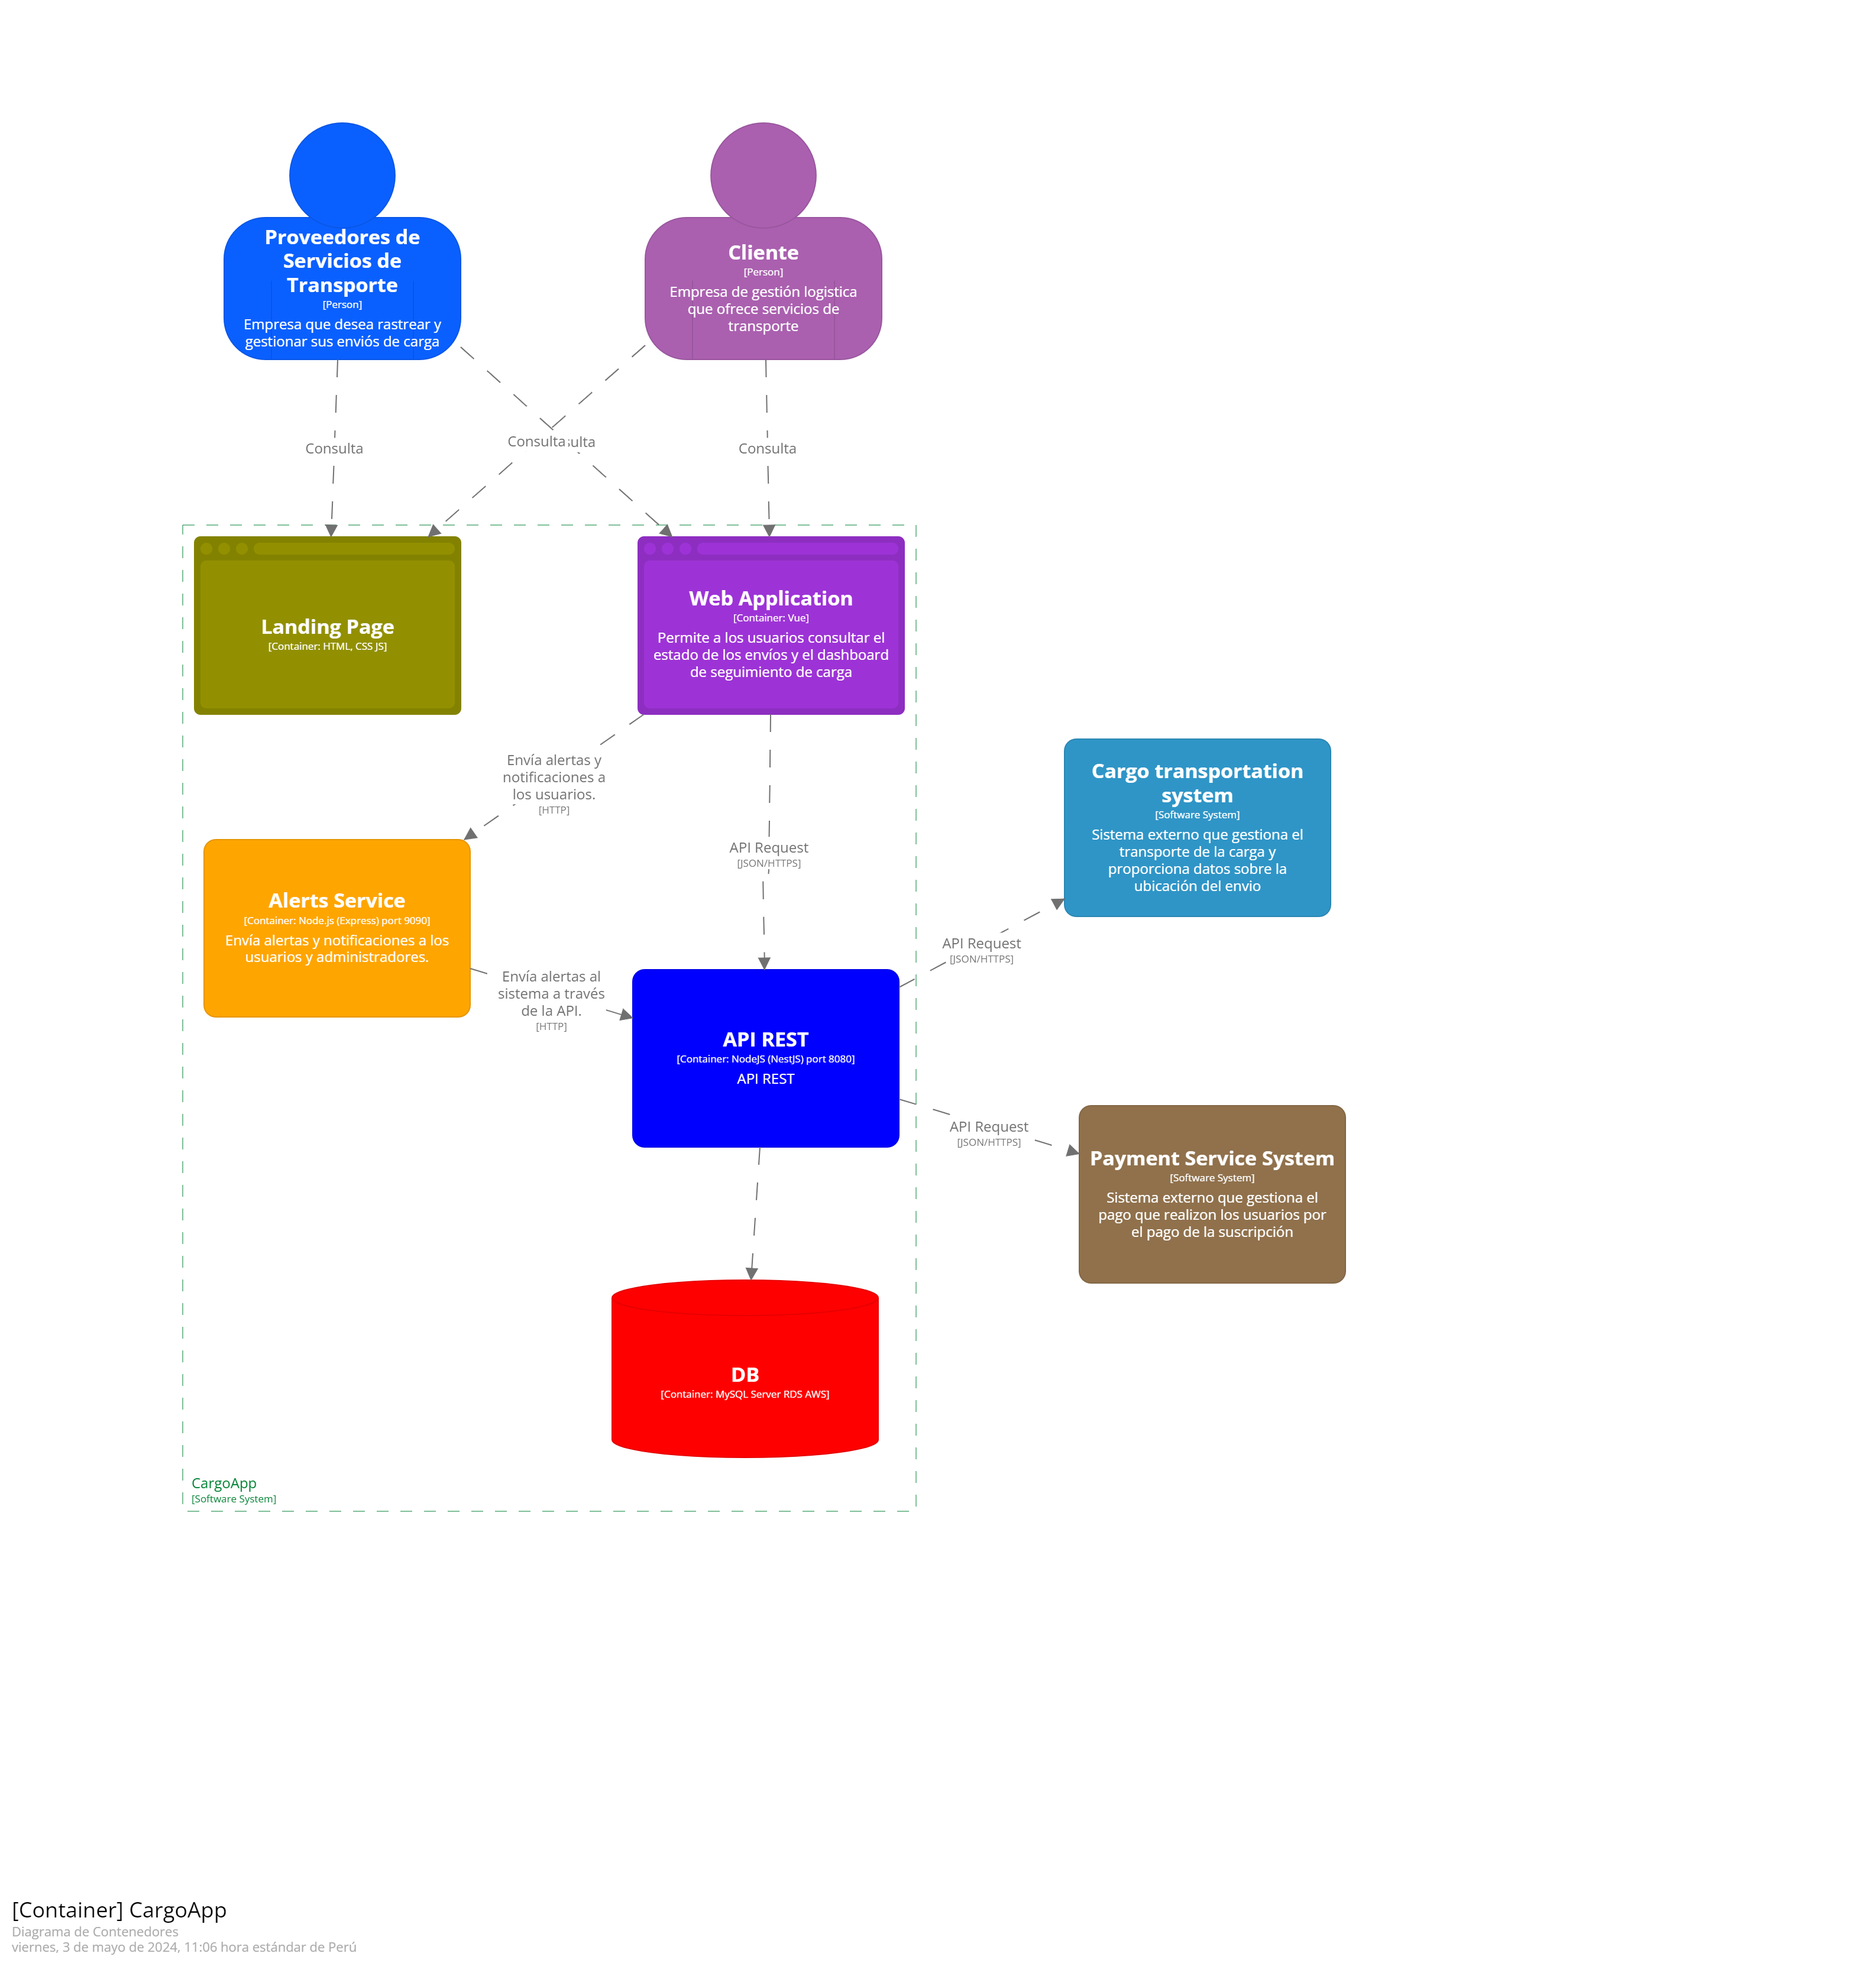
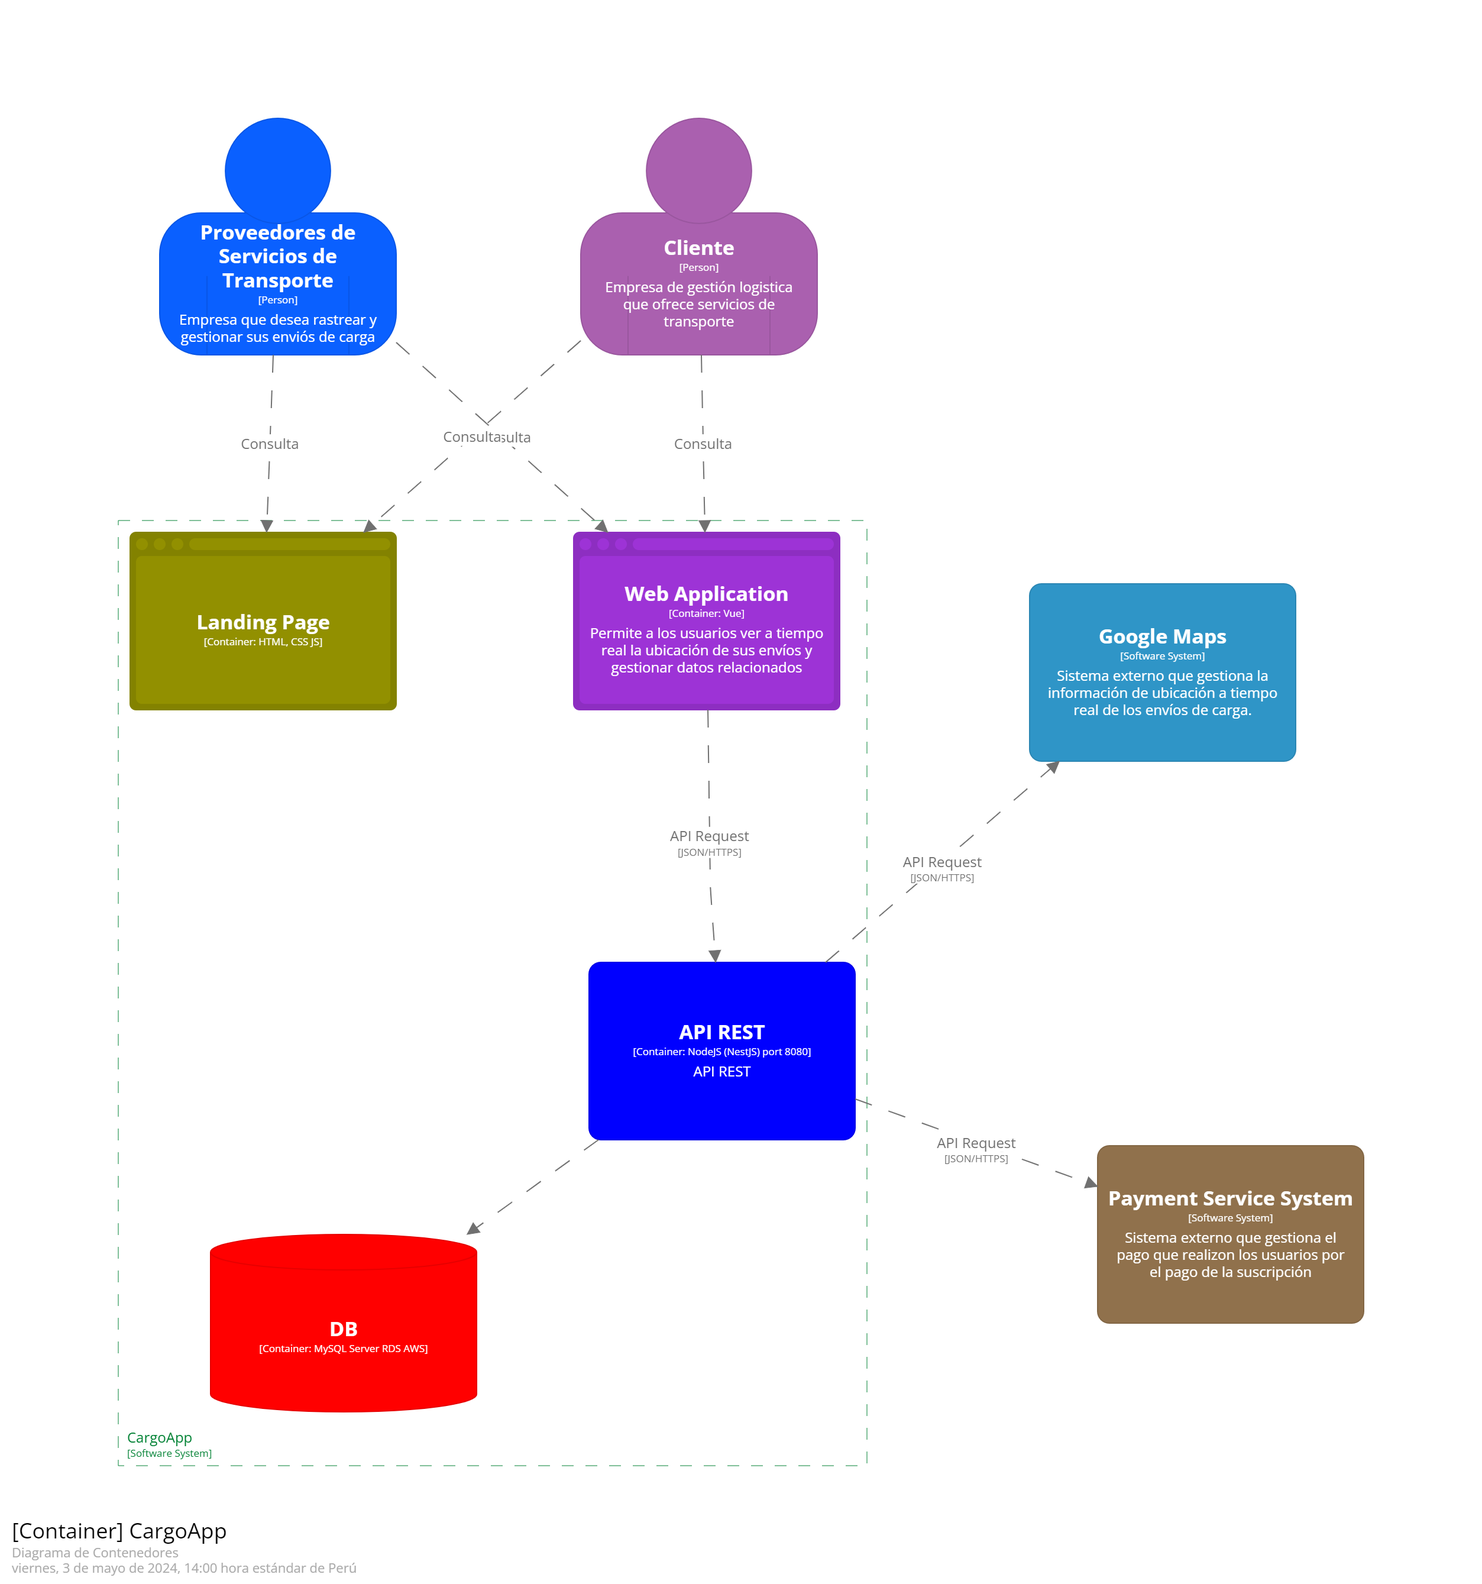
docs: update c4

diff --git a/README.md b/README.md
@@ -1446,31 +1446,31 @@ URL del video:
 ## 4.6. Domain-Driven Software Architecture
 ### 4.6.1. Software Architecture Context Diagram
 
-El diagrama de contexto representa la estructura y las principales interacciones de un sistema de software. Este sistema permite a los usuarios, ya sean las empresas que requieren de servicio de transporte o empresas de gestión logística que se encargan de realizar el proceso de transporte, explorar la plataforma y llevar a cabo el seguimiento de sus envíos de cargas grandes. Además, el sistema establece conexiones con sistemas externos, así como el sistema de servicio de pago para suscripciones, y luego el sistema del transporte de carga que proporciona los datos de ubicación y el estado de los envíos.
+El diagrama de contexto describe la estructura y las interacciones principales de nuestro sistema de gestión de transporte de carga a través de una plataforma digital. Este sistema involucra a proveedores de servicios de transporte que utilizan la plataforma para registrar y gestionar envíos, así como a clientes de empresas logísticas que acceden a la plataforma para rastrear y gestionar eventos relacionados con los envíos. La plataforma central, denominada CargoApp (TransportationSystem), permite registrar el proceso de envío y almacenar información relevante. Además, el sistema se integra con un servicio externo de pagos (PaymentSystem) para gestionar transacciones asociadas con los envíos y utiliza Google Maps para obtener información de ubicación en tiempo real. Este diagrama proporciona una visión general de cómo interactúan las entidades dentro del sistema y cómo se conectan con sistemas externos críticos para sus operaciones.
 
 <img src="img/structurizr-83137-Contexto.png" alt="Diagrama de contexto" width="100%">
 
 ### 4.6.2. Software Architecture Container Diagrams
 
-El diagrama de contenedores muestra la arquitectura del sistema de Software de “CargoApp”, la cual usan los clientes para hacer la gestión de envíos. Esta cuenta con varios contenedores así como la aplicación web que muestra la interfaz para los clientes, el servidor que ejecuta y gestiona los servicios como la base de datos, luego el servicio de alertas para notificar sobre eventos y finalmente el API de transporte de carga que interactúa con los sistemas externos.
+El diagrama de contenedores detalla los componentes principales de nuestro sistema de gestión de transporte de carga a través de una plataforma digital. La aplicación web permite a los usuarios ver la ubicación en tiempo real de sus envíos y gestionar datos relacionados, mientras que la página de inicio ofrece funcionalidades de consulta. La API REST actúa como el intermediario entre el frontend y el backend del sistema, facilitando la comunicación a través de solicitudes web. Además, una base de datos almacena los datos del sistema. Las interacciones incluyen consultas de usuarios hacia la aplicación web y la página de inicio, y comunicación entre la API REST, la base de datos y otros sistemas externos como el sistema de pagos y Google Maps. Este diagrama proporciona una visión clara de cómo se estructuran y comunican los diferentes elementos dentro del sistema de transporte de carga digital.
 
-<img src="img/structurizr-83137-Contenedor (1).png" alt="Diagrama de contenedores" width="100%">
+<img src="img/structurizr-83137-Contenedor.png" alt="Diagrama de contenedores" width="100%">
 
 ### 4.6.3. Software Architecture Components Diagrams
 
-El diagrama de componentes permite visualizar la estructura interna de un sistema de software y sus relaciones, facilitando el diseño modular y la comprensión de cómo interactúan sus diferentes partes. En el sistema representado en el diagrama de componentes, varios servicios y controladores, como Scatistic Service para estadísticas, Recommendation Service para recomendaciones, Subscription Controller para suscripciones, User Controller para gestión de usuarios, Security Service para seguridad, Payment Service para pagos, y Notifications Service para notificaciones, están conectados a una base de datos, un sistema de pago y un núcleo compartido. Esta arquitectura permite una gestión coherente y eficiente de diversas funcionalidades del sistema, garantizando la consistencia en el acceso a datos y funcionalidades compartidas, así como la modularidad en el desarrollo y mantenimiento del software.
+El diagrama de componentes de la API REST muestra las partes esenciales de nuestro sistema diseñado para gestionar funcionalidades relacionadas con usuarios, visualización de viajes y gastos, registro de datos y funcionalidades compartidas. Estos componentes, implementados con Vue.js para la interfaz de usuario y Node.js (NestJS) para el kernel compartido, interactúan entre sí y con sistemas externos como una base de datos JDBC, el sistema de pagos y Google Maps. El componente "User" maneja las operaciones de usuario y se conecta al sistema de pagos; "Visualization" se encarga de mostrar viajes y gastos con datos de la base de datos y Google Maps; "Registration" registra datos de viajes y gastos en la base de datos; y "Shared Kernel" proporciona funcionalidades compartidas. Este diagrama ilustra cómo se integran y colaboran estos componentes en la arquitectura de la API REST del sistema.
 
-<img src="img/structurizr-83137-API Rest Component Diagram (1).png" alt="Diagrama de componentes" width="100%">
+<img src="img/structurizr-91455-API Rest Component Diagram.png" alt="Diagrama de componentes" width="100%">
 
 
 *User Bounded Context Component Diagram*
-<img src="img/structurizr-83137-Registration BC Component Diagram.png" alt="User Bounded Context Component Diagram" width="100%">
+<img src="img/structurizr-83137-Users BC Component Diagram.png" alt="User Bounded Context Component Diagram" width="100%">
 
-*Registration Context Component Diagram*
+*Registration Bounded Context Component Diagram*
 <img src="img/structurizr-83137-Registration BC Component Diagram.png" alt="Registration Context Component Diagram" width="100%">
 
-*GPS Bounded Context Component Diagram*
-<img src="img/structurizr-83137-GPS BC Component Diagram.png" alt="GPS Bounded Context Component Diagram" width="100%">
+*Visualization Bounded Context Component Diagram*
+<img src="img/structurizr-83137-Visualization BC Component Diagram.png" alt="GPS Bounded Context Component Diagram" width="100%">
 
 
 ## 4.7. Software Object-Oriented Design
